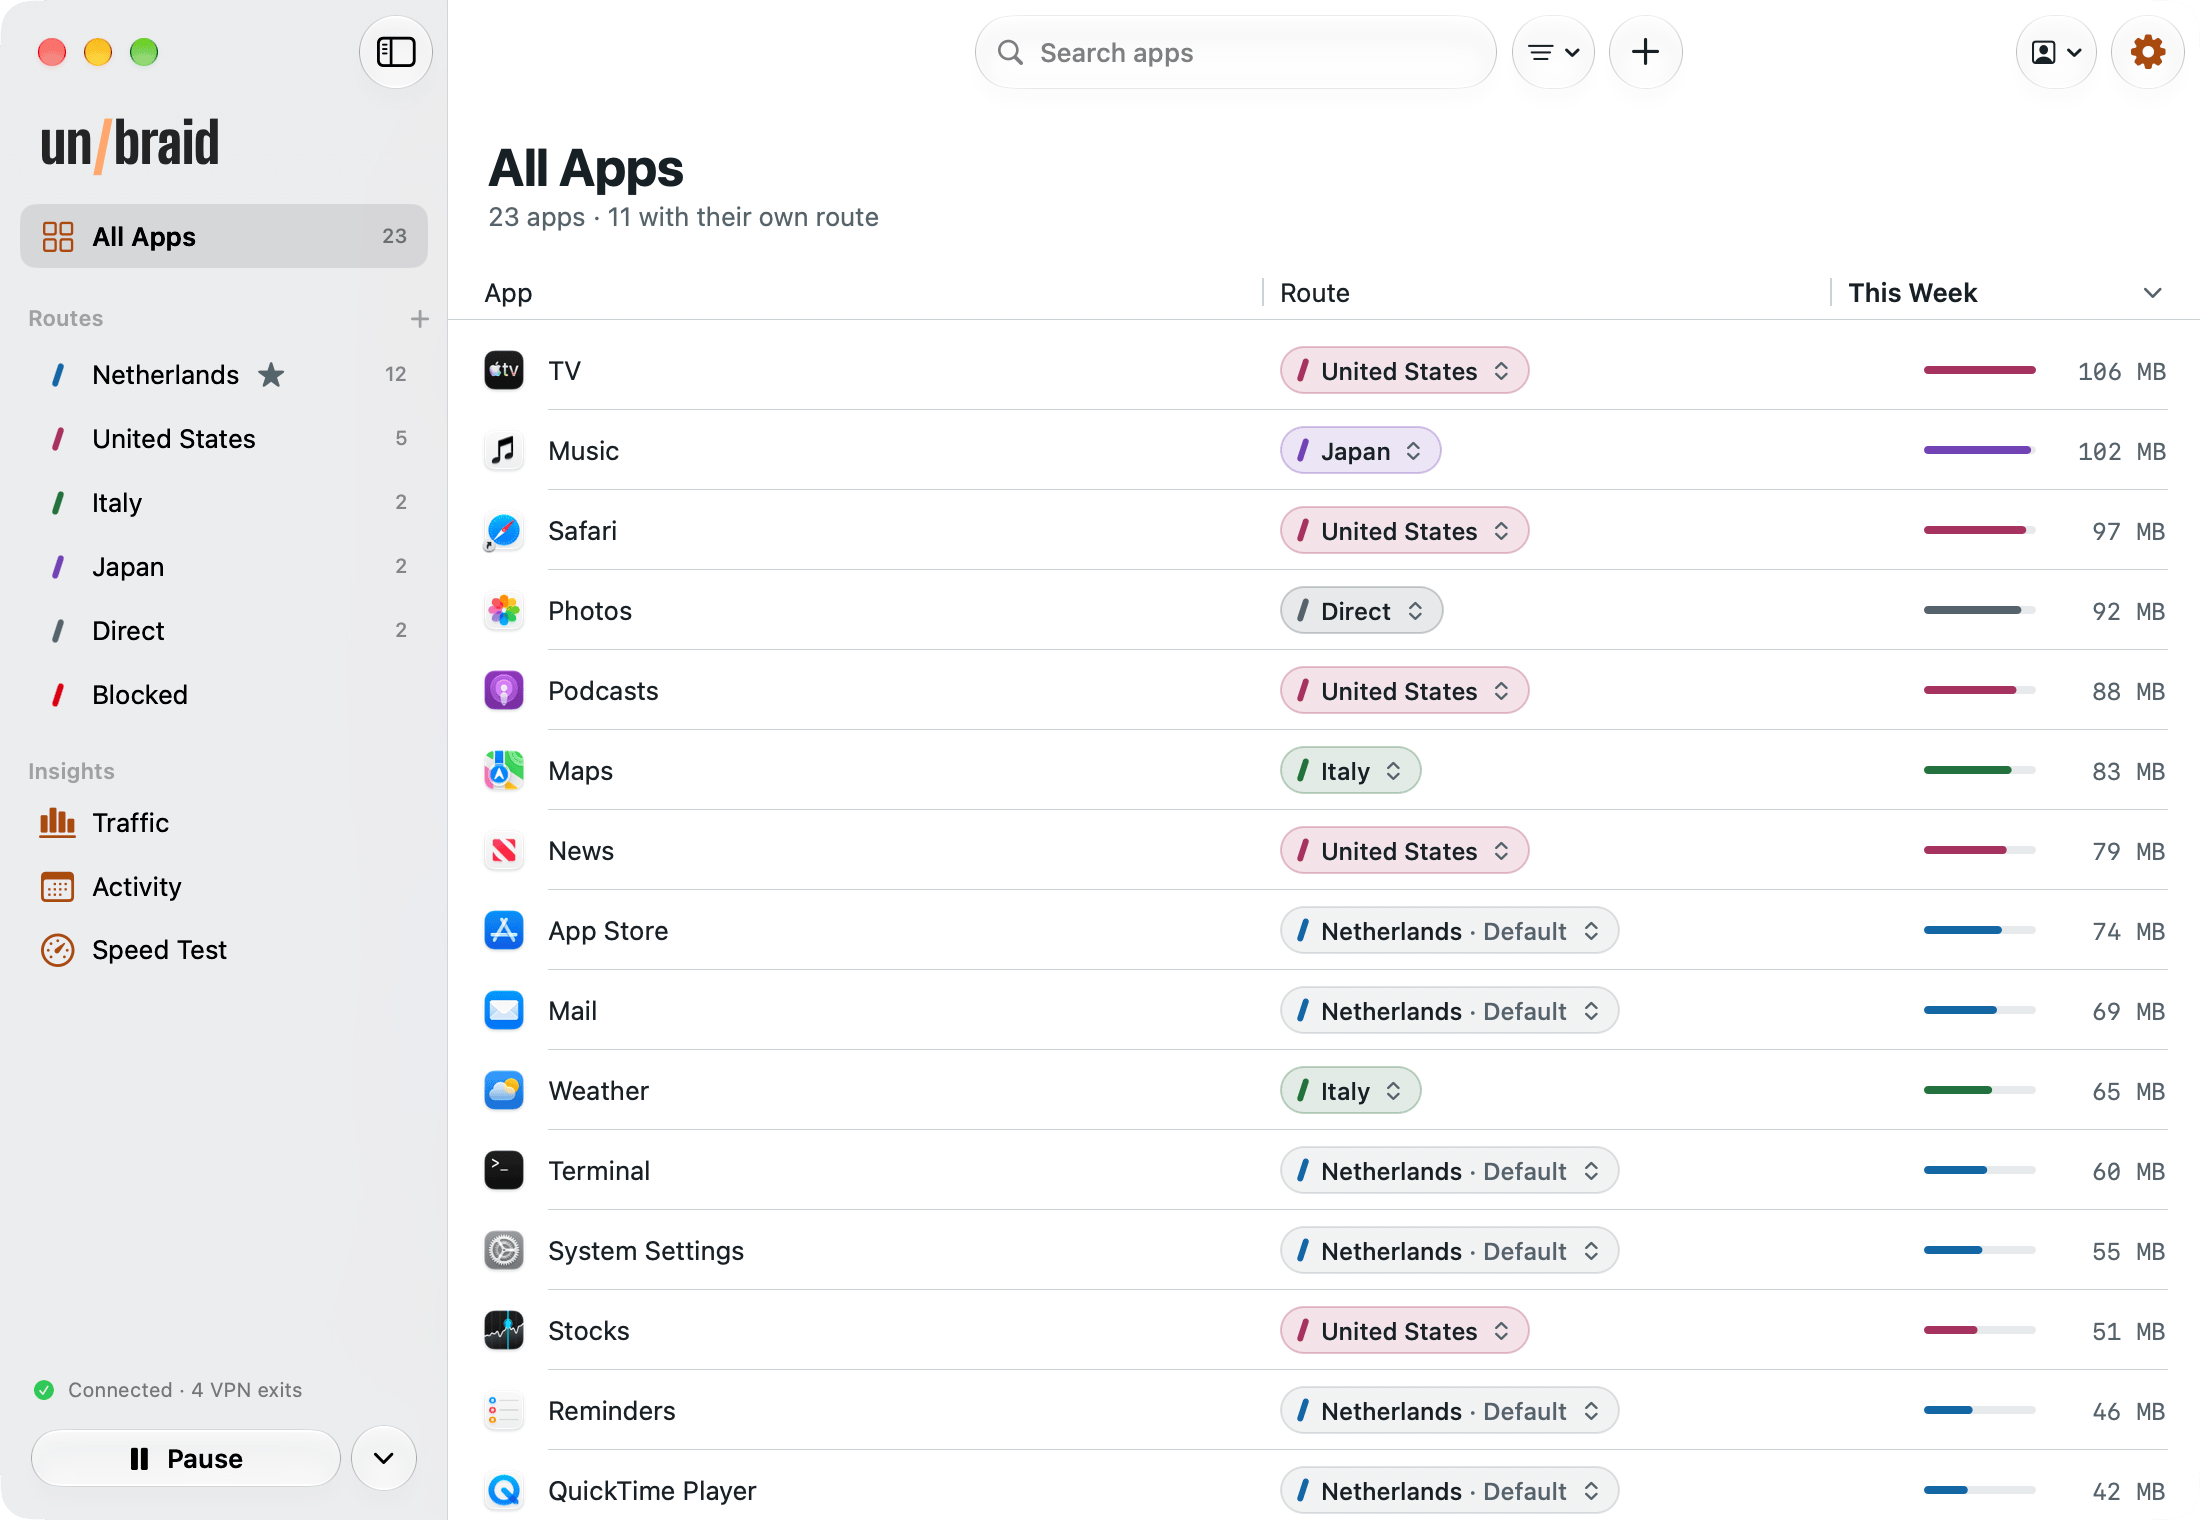
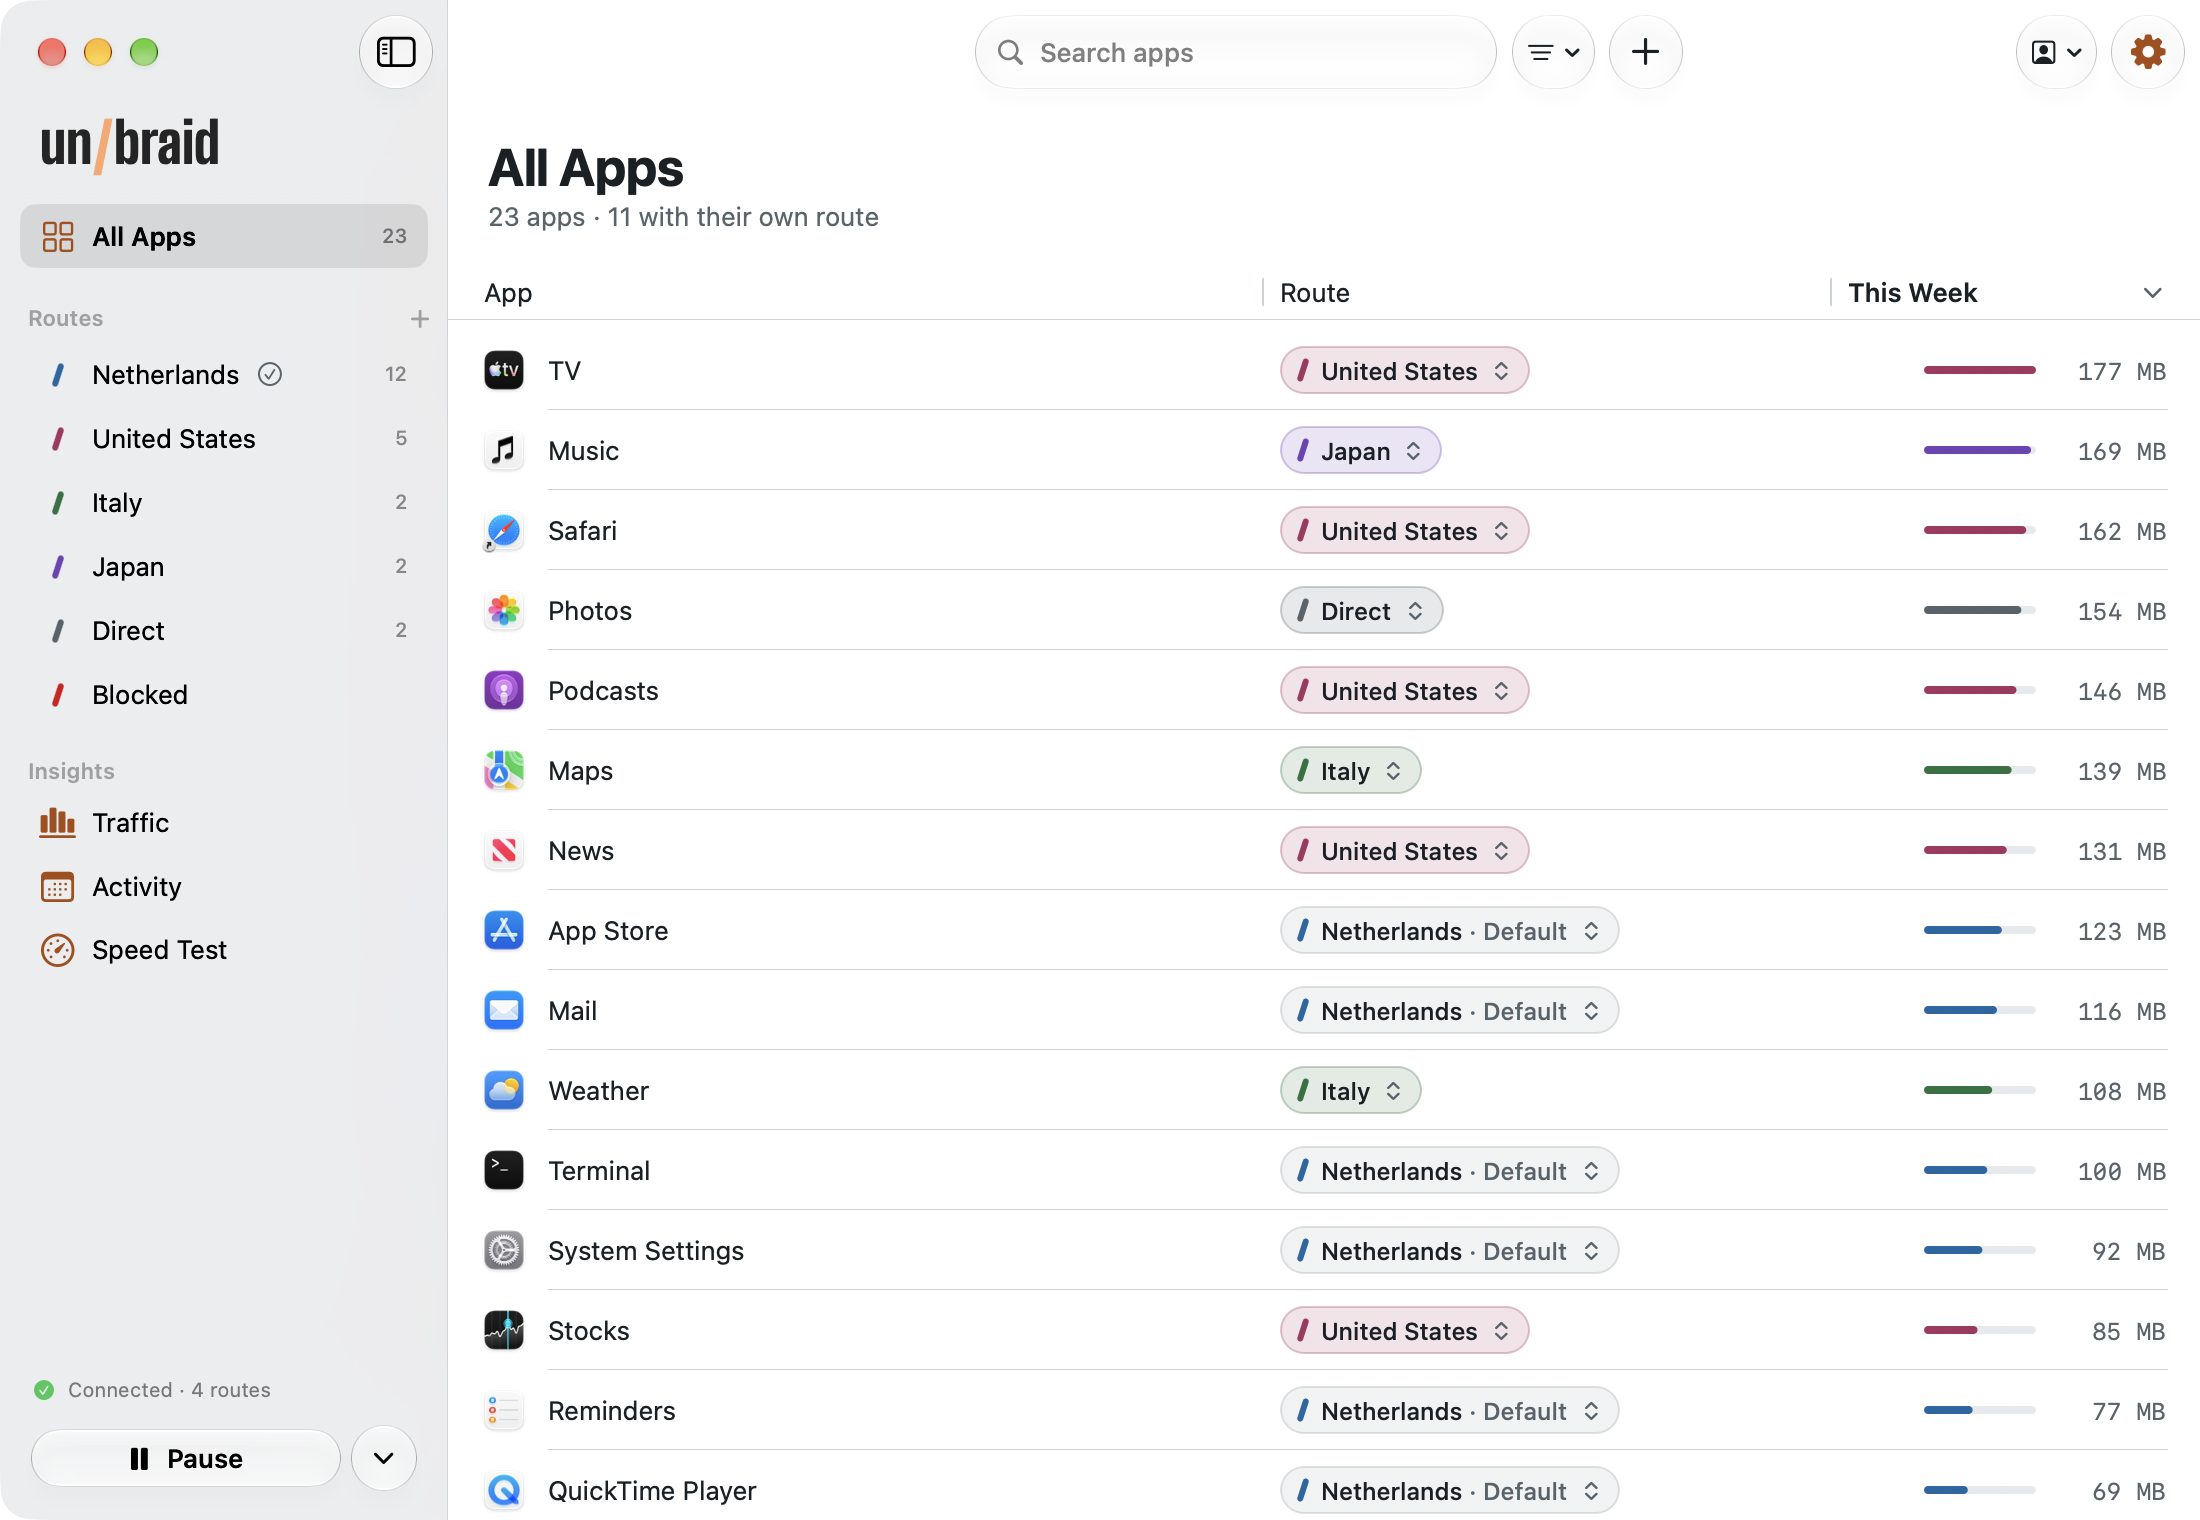
README: 1.1.0 screenshots and wording (Change Location, routes), full list of engine changes, Go 1.26.11

diff --git a/README.md b/README.md
@@ -24,12 +24,12 @@ all at the same time. If you use Tailscale, your home network stays reachable to
 
 <table align="center">
   <tr>
-    <td align="center" width="38%"><picture><source media="(prefers-color-scheme: dark)" srcset=".github/screenshots/apps-dark.png"><img src=".github/screenshots/apps.png" alt="All Apps: each app with its route, TV, Safari and Podcasts in the United States, Music in Japan, Maps and Weather in Italy, Photos Direct and most others on the default exit in the Netherlands, with this week's data per app" width="260"></picture></td>
+    <td align="center" width="38%"><picture><source media="(prefers-color-scheme: dark)" srcset=".github/screenshots/apps-dark.png"><img src=".github/screenshots/apps.png" alt="All Apps: each app with its route, TV, Safari and Podcasts in the United States, Music in Japan, Maps and Weather in Italy, Photos Direct and most others following the default route in the Netherlands, with this week's data per app" width="260"></picture></td>
     <td align="center" width="38%"><picture><source media="(prefers-color-scheme: dark)" srcset=".github/screenshots/route-dark.png"><img src=".github/screenshots/route.png" alt="The United States route on Mullvad in New York: live download speed, this week's total and the five apps that use it" width="260"></picture></td>
-    <td align="center" rowspan="4" width="24%"><picture><source media="(prefers-color-scheme: dark)" srcset=".github/screenshots/panel-dark.png"><img src=".github/screenshots/panel.png" alt="The menu bar panel: connected with four VPN exits, live speed, the app in front with its route one click away, a profile menu and the download speed of each route" width="150"></picture><br><sub>The app in front, one click from another route</sub></td>
+    <td align="center" rowspan="4" width="24%"><picture><source media="(prefers-color-scheme: dark)" srcset=".github/screenshots/panel-dark.png"><img src=".github/screenshots/panel.png" alt="The menu bar panel: connected with four VPN routes, live speed, the app in front with its route one click away, a profile menu and the download speed of each route" width="150"></picture><br><sub>The app in front, one click from another route</sub></td>
   </tr>
   <tr>
-    <td align="center"><sub>Each app gets its own exit</sub></td>
+    <td align="center"><sub>Each app gets its own route</sub></td>
     <td align="center"><sub>Every route with its apps and live speed</sub></td>
   </tr>
   <tr>
@@ -57,7 +57,7 @@ providers. It needs Android 13 or later.
   where it has one.
 - Saved profiles, a menu bar panel with the front app's route one click away, desktop widgets and Control Center
   controls.
-- Stats on this Mac: data per route and app, live speed and connected time, and M-Lab speed tests through one exit
+- Stats on this Mac: data per route and app, live speed and connected time, and M-Lab speed tests through one route
   or several at once.
 - No ads, no unbraid account and no analytics. Free software under the GPL.
 
@@ -81,7 +81,7 @@ Routes can mix providers. One app can use Mullvad in Sweden while another uses N
    Extensions. unbraid lives in the menu bar; its window opens from there.
 3. Accept the terms and choose your VPN. You can sign in to a provider, import a WireGuard or OpenVPN file (*Your own
    server*), paste a Shadowsocks key, or use Tailscale on its own.
-4. Select the default route in the sidebar and choose *Change Server…* to pick a country. This is where every app
+4. Select the default route in the sidebar and choose *Change Location…* to pick a country. This is where every app
    goes unless you say otherwise. Then click *Connect* and allow the VPN configuration when macOS asks.
 5. To send some apps somewhere else, click *Add Route* and choose another country or server. In *All Apps*, click
    *Show My Apps* (the list stays on your Mac), then drag apps onto a route in the sidebar or use *Move To*. Choose
@@ -112,7 +112,7 @@ Settings › About), unbraid looks about once a day for a newer version and tell
 ### How is this different from the split tunneling in my VPN app?
 
 In many VPN apps, split tunneling means you can pick apps that skip the VPN, while every other app leaves from the
-same place. unbraid lets you choose an exit for each app, and those exits can come from different providers.
+same place. unbraid lets you choose a route for each app, and those routes can come from different providers.
 
 ### Can I use it without a VPN subscription?
 
@@ -122,7 +122,7 @@ paste a Shadowsocks key, or use only Tailscale, for example with an exit node at
 ### Can I reach my home network while I use a VPN?
 
 Yes. With Tailscale (plus a subnet router for devices that aren't on your tailnet), or with your router's WireGuard
-config added as a home tunnel, apps can reach devices at home and still use their VPN exit for everything else.
+config added as a home tunnel, apps can reach devices at home and still use their VPN route for everything else.
 
 ### Does it have a kill switch?
 
@@ -154,7 +154,7 @@ apps -> utun -> sing-box -> rules: DNS, blocked, home, LAN, the app's route, def
 
 Each TCP and UDP connection is routed by the program that opened it, matched by its path, including helpers inside an
 app's bundle. A connection macOS opens on an app's behalf, such as Safari's pages through WebKit or a download
-through nsurlsessiond, counts as that app's. DNS is answered with fake addresses and looked up again on the exit the
+through nsurlsessiond, counts as that app's. DNS is answered with fake addresses and looked up again on the route the
 app really uses, so a site sees the country you picked for that app. IPv6 follows an app's route or is refused. Only
 the default route and the routes your apps use are connected.
 
@@ -164,7 +164,7 @@ Server lists come from each provider's public API where there is one, and otherw
 ## Build
 
 You need macOS 26, Xcode 26, [XcodeGen](https://github.com/yonaskolb/XcodeGen) and Go 1.21 or later (Go fetches the
-exact toolchain itself through `GOTOOLCHAIN`).
+exact toolchain, 1.26.11, itself through `GOTOOLCHAIN`).
 
 ```bash
 tools/build-libbox.sh     # Frameworks/Libbox.xcframework from sing-box v1.14.4 with the patches in tools/
@@ -177,8 +177,11 @@ The build script keeps its work files in `~/Development/unbraid-mac-deps`. Set `
 patches in `tools/` stop the engine from writing the running configuration, which holds private keys, to disk, match
 connections opened for an app by another process to that app, hand the Tailscale node state to the app to be sealed,
 refuse files sent through Taildrop, give an OpenVPN tunnel a resolver inside it when its server pushes none, and let
-the app's connection checks look up their servers through the tunnel being checked. `tools/build-cli.sh` builds the
-engine's command-line version, which the tests use to check every generated configuration.
+the app's connection checks look up their servers through the tunnel being checked. They also put the network's IPv4
+DNS servers first, narrow how UDP traffic is matched to its app, keep a test or Tailscale sign-out that overlaps a
+reload from stopping the engine, bound OpenVPN's exit notifications and take security fixes of some dependencies (the
+full list: `tools/notices/changes-sing-box.txt`). `tools/build-cli.sh` builds the engine's command-line version, which
+the tests use to check every generated configuration.
 
 Running the app takes an Apple Developer Program membership, because the network extension needs a signing team with
 that capability. Put your own team ID and bundle-ID prefix in `Config/Local.xcconfig` (git ignores it), as

diff --git a/THIRD-PARTY.md b/THIRD-PARTY.md
@@ -14,7 +14,7 @@ a libbox build.
 | [wireguard-go](https://github.com/sagernet/wireguard-go) (SagerNet fork) | WireGuard inside the engine | MIT, Copyright WireGuard LLC |
 | [Tailscale](https://github.com/sagernet/tailscale) (SagerNet fork) | Tailscale and Headscale inside the engine | BSD-3-Clause |
 | [gVisor](https://github.com/sagernet/gvisor) (SagerNet fork) | The engine's network stack | Apache-2.0 |
-| Go standard library and runtime | Part of the engine | BSD-3-Clause |
+| Go standard library and runtime (Go 1.26.11) | Part of the engine | BSD-3-Clause |
 | [sagernet/gomobile](https://github.com/sagernet/gomobile) | The engine's Objective-C bindings (generated code and its runtime) | BSD-3-Clause |
 | Go modules linked into the engine | Protocols, crypto and networking in sing-box | Each module's own licence (GPL-3.0, LGPL-3.0, MPL-2.0, Apache-2.0, BSD, MIT, ISC, Unlicense, CC0), listed with its full text in `notices.txt` |
 | [uTLS](https://github.com/metacubex/utls) | TLS fingerprints | BSD-3-Clause, with parts under LGPL-3.0 (with a static-linking exception) and MIT |
